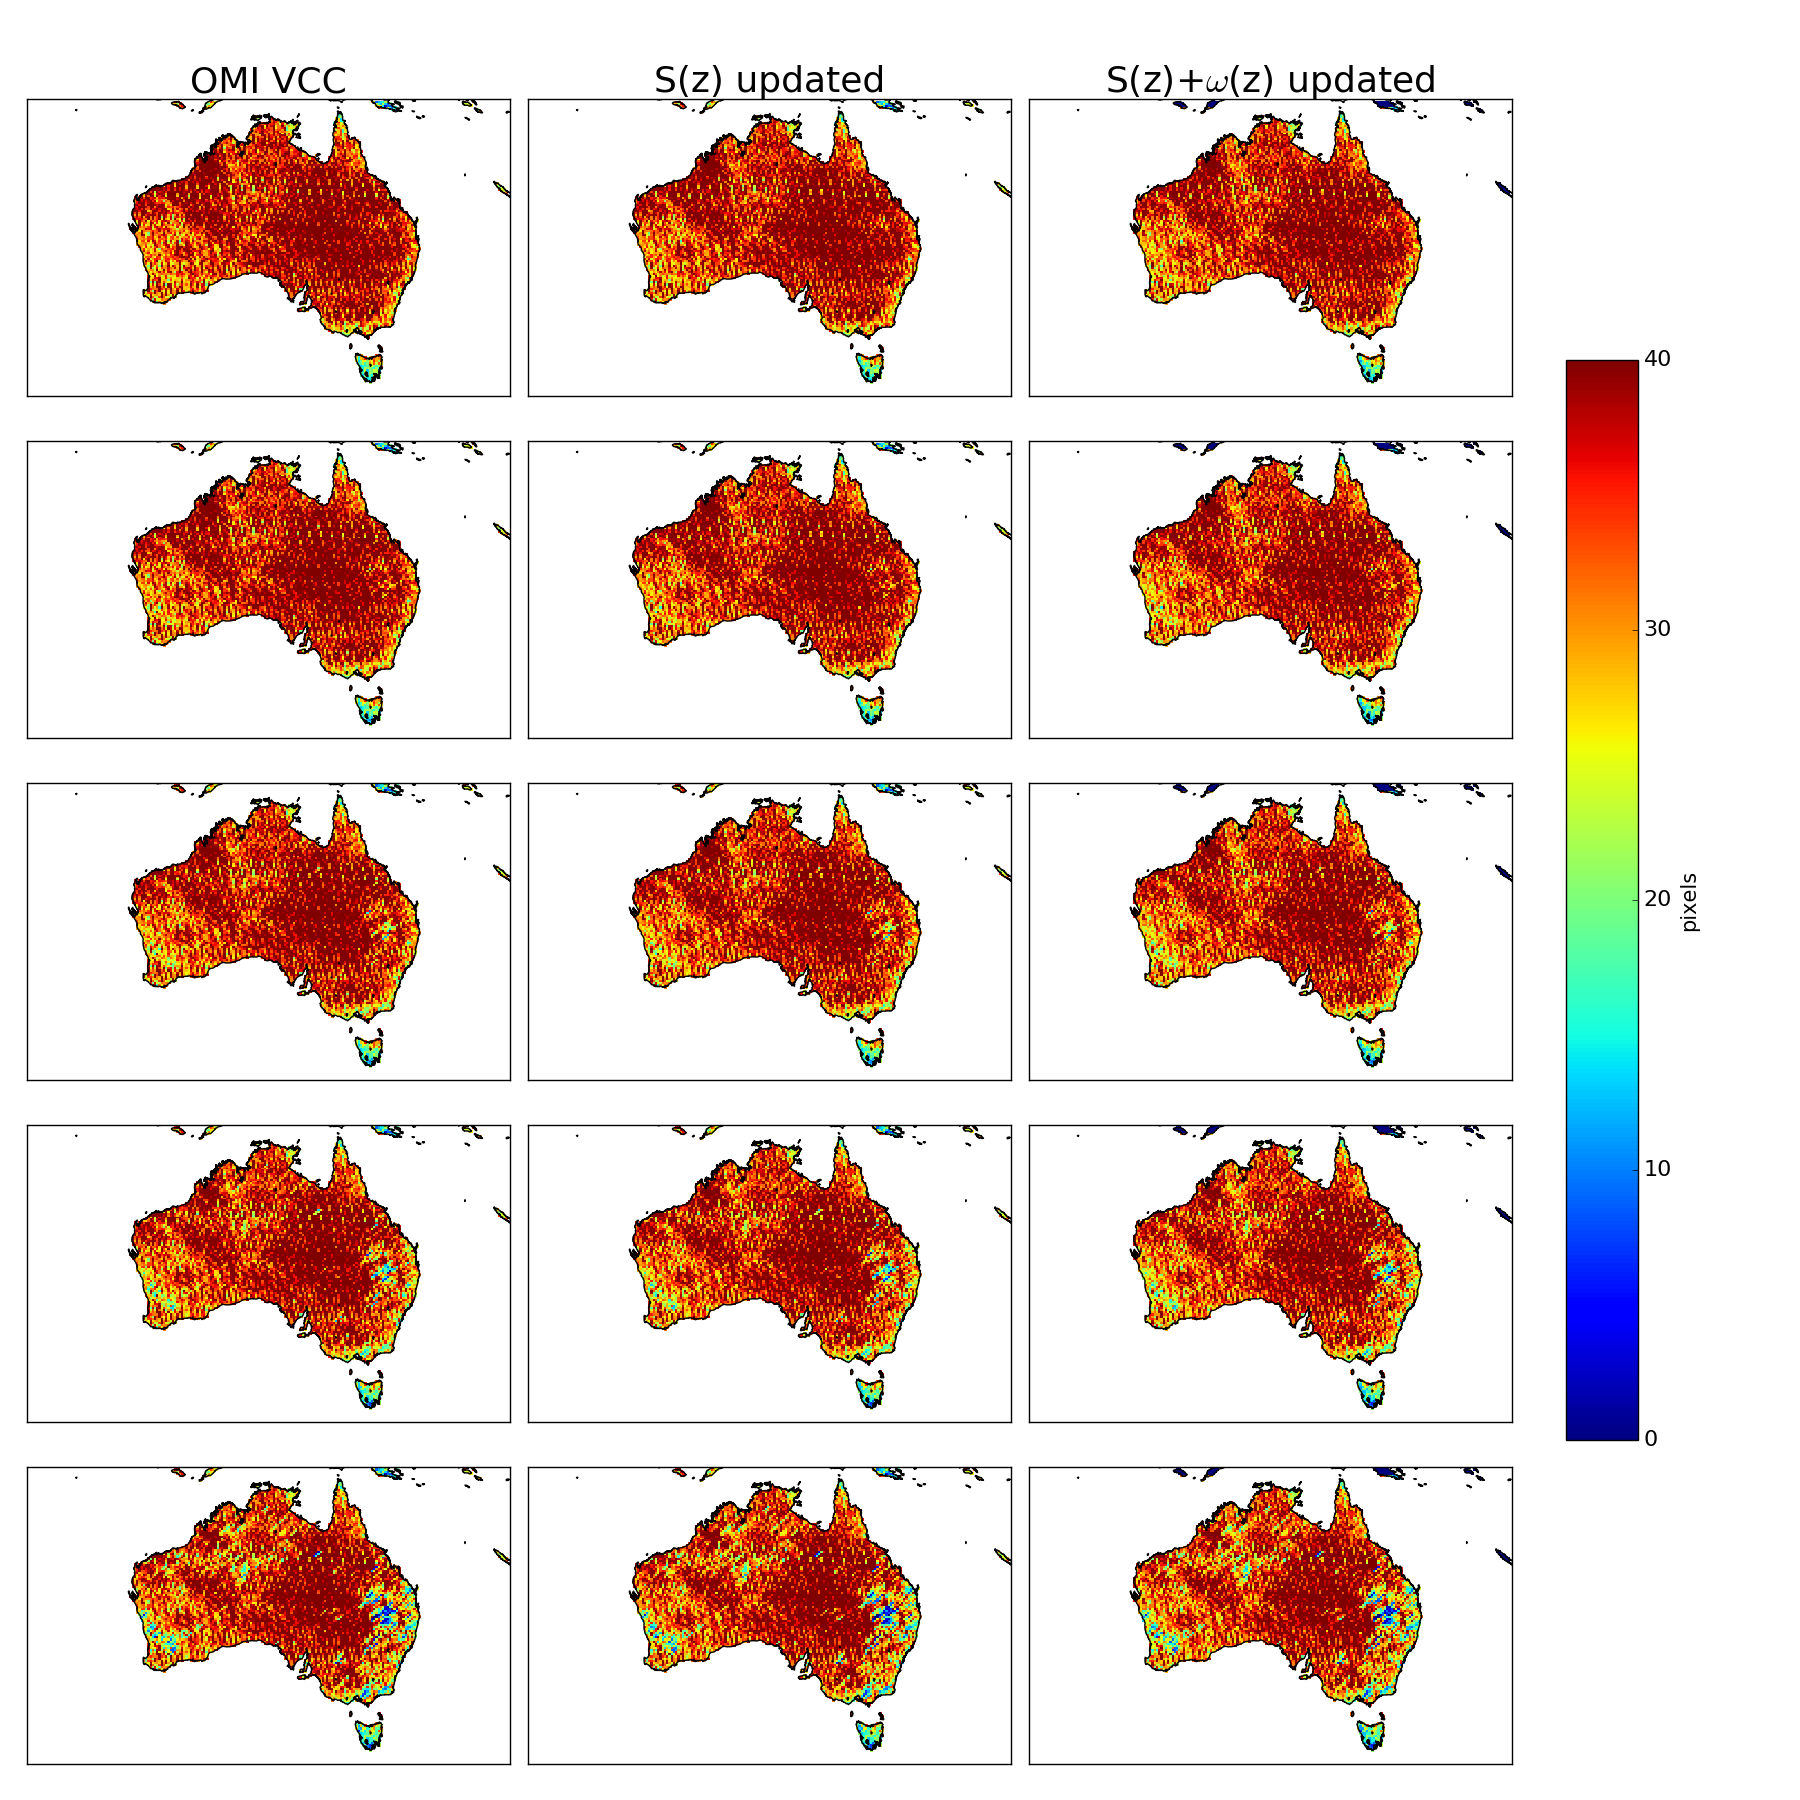
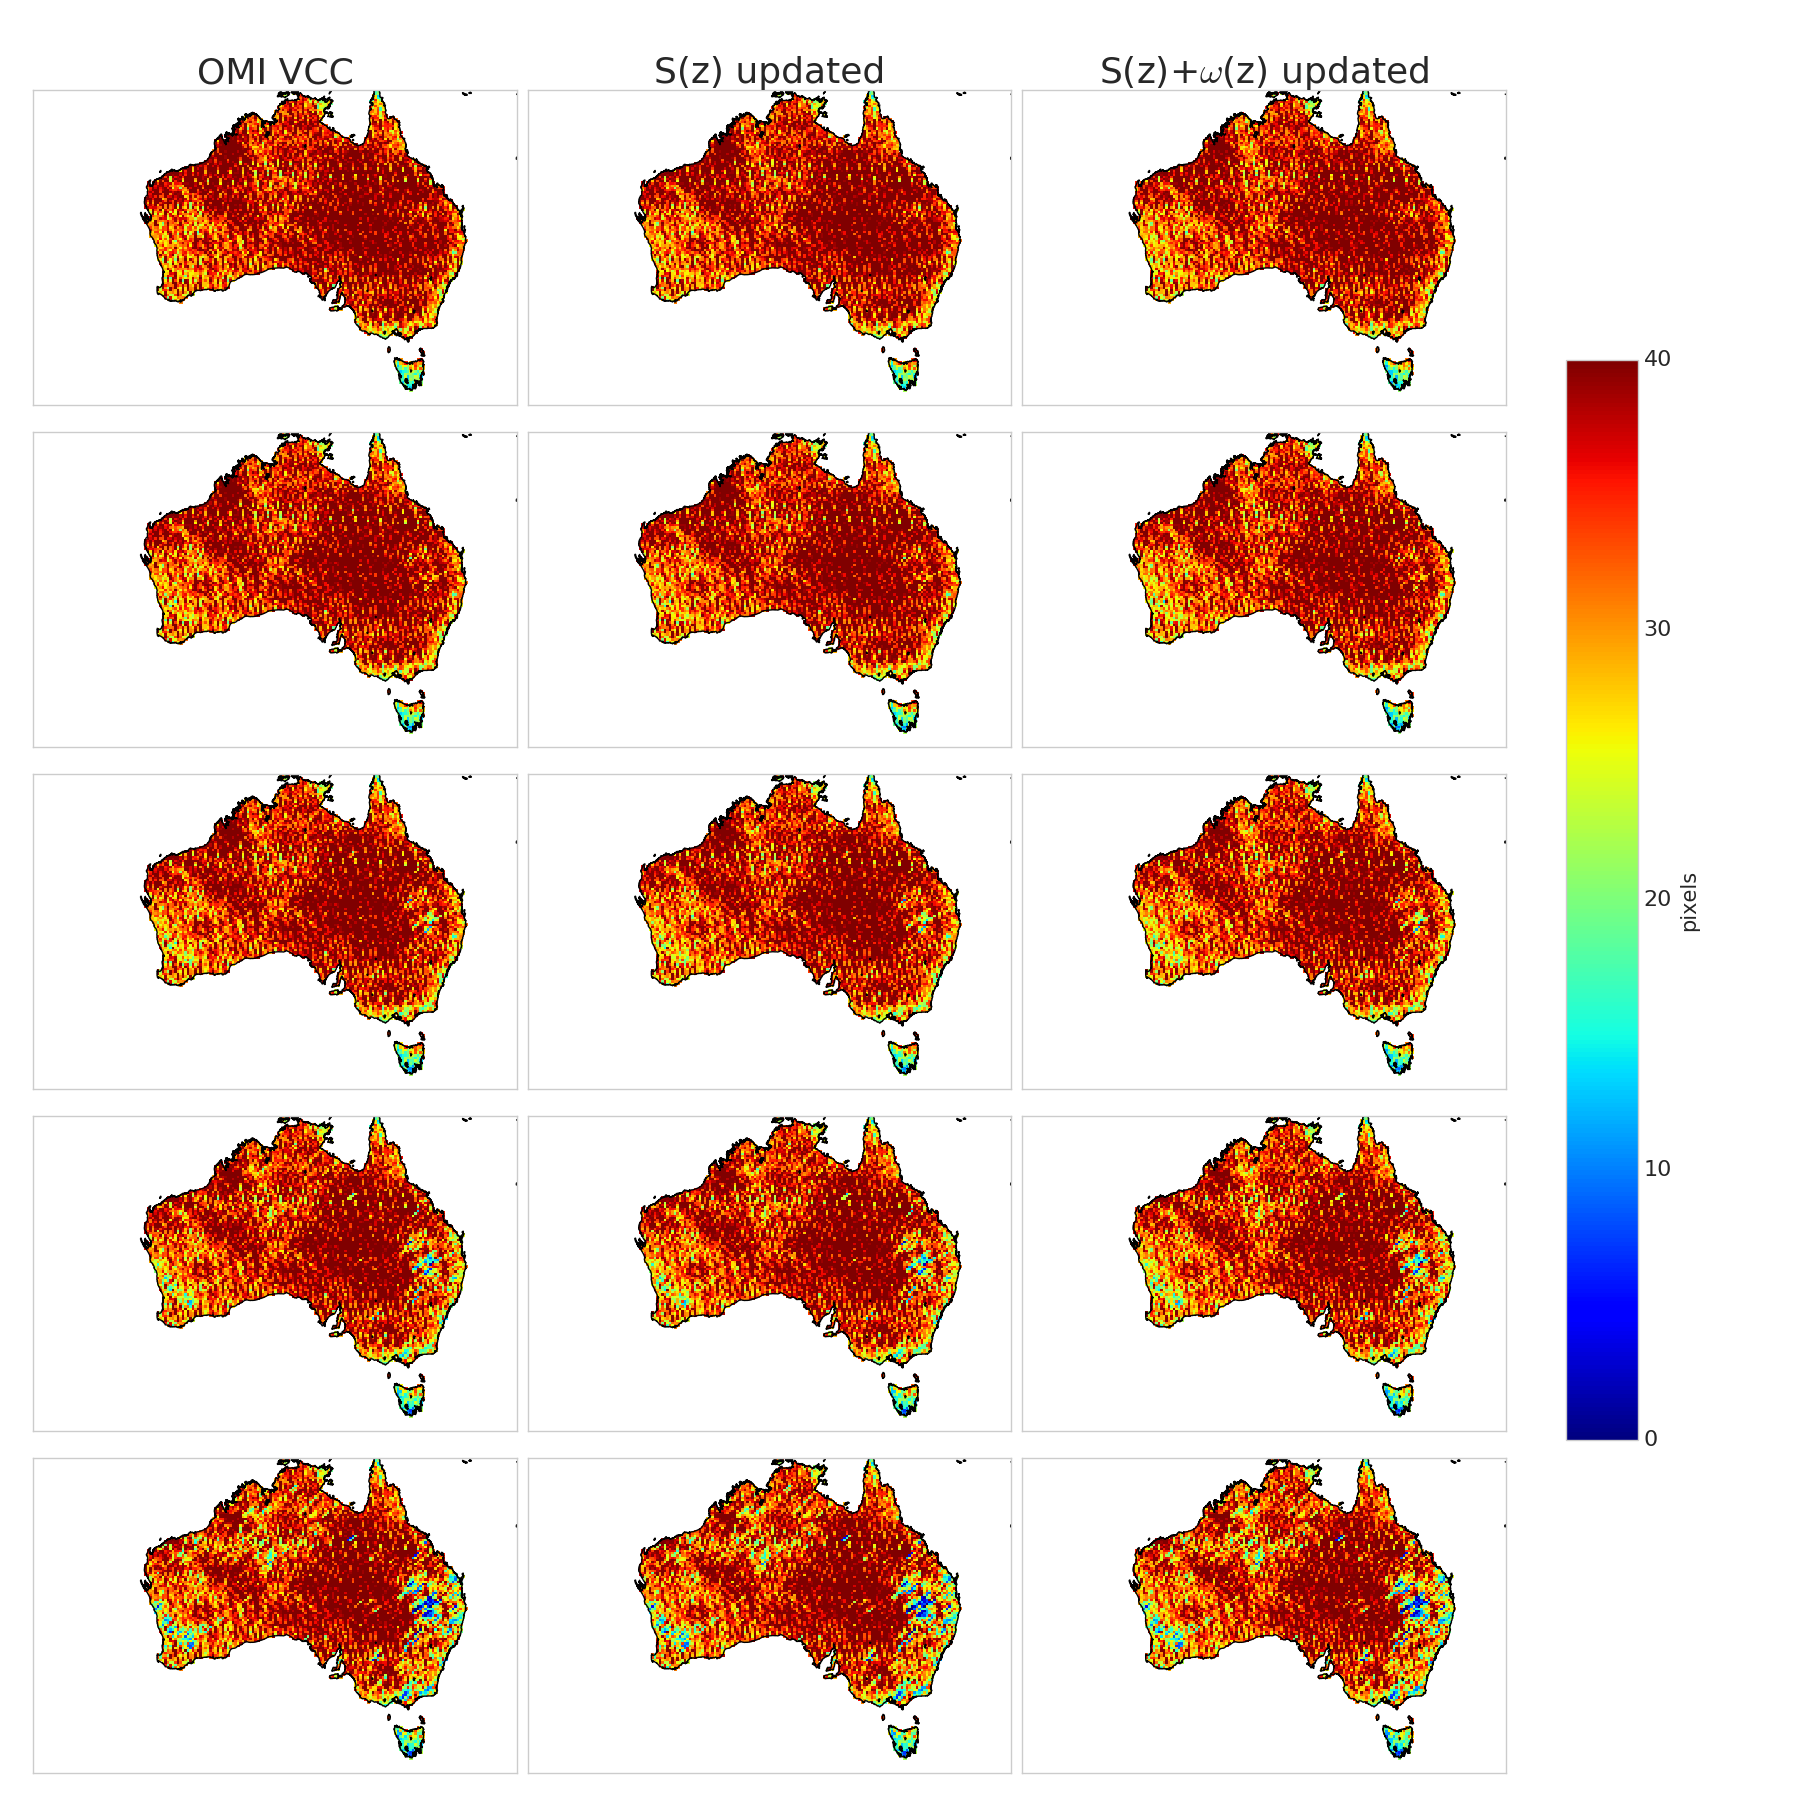
Updated vcc/pp/gc plot, added smoke vs fire

Changed region(s): [[0.0311, 0.0311, 0.84, 0.9956], [0.5289, 0.0311, 0.56, 0.0622]]

diff --git a/tests.py b/tests.py
@@ -27,6 +27,7 @@ from mpl_toolkits.basemap import Basemap, maskoceans
 import matplotlib.pyplot as plt
 from matplotlib.colors import LogNorm # for lognormal colour bar
 #import matplotlib.patches as mpatches
+import seaborn # kdeplots
 
 import random # random number generation
 import timeit
@@ -70,6 +71,77 @@ def check_array(array, nonzero=False):
 #############################################################################
 ######################       TESTS                  #########################
 #############################################################################
+
+def smoke_vs_fire(d0=datetime(2005,1,1),dN=datetime(2005,1,31),region=pp.__AUSREGION__):
+    '''
+        Compare fire counts to smoke aaod in the omhchorp files
+    '''
+    d0str=d0.strftime('%Y%m%d')
+    if dN is None:
+        dN = d0
+
+    dNstr=dN.strftime('%Y%m%d')
+
+    # Read the omhchorp product from d0-dN
+    data=omrp(day0=d0,dayn=dN, keylist=['AAOD','fires'])
+    lats=data.lats
+    lons=data.lons
+    # data fires and aaod = [times, lats, lons]
+    # data.fires.shape; data.AAOD.shape
+
+    f,axes=plt.subplots(2,2,figsize=(16,16)) # 2 rows 2 columns
+
+    titles=['Fires','AAOD$_{500nm}$']
+    linear=[True,False]
+    # average over time:
+    fires=data.fires.astype(np.float)
+    aaod=data.AAOD
+    fires[fires<0] = np.NaN
+    aaod[aaod<0]   = np.NaN
+    # Average over time
+    if data.n_times > 1:
+        fires=np.nanmean(fires,axis=0)
+        aaod=np.nanmean(aaod,axis=0)
+
+    for i,arr in enumerate([fires,aaod]):
+
+        # plot into right axis
+        plt.sca(axes[0,i])
+        pp.createmap(arr,lats,lons,title=titles[i],
+                     linear=linear[i],region=region,
+                     colorbar=True,cmapname='Reds',)
+                     #vmin=vmins[i],vmax=vmaxes[i])
+    plt.suptitle('Fires vs AAOD %s-%s'%(d0str,dNstr))
+
+    # third subplot: regression
+    plt.sca(axes[1,0])
+    X=fires
+    Y=aaod
+
+    subset=util.lat_lon_subset(lats,lons,region,[X,Y])
+    X,Y=subset['data'][0],subset['data'][1]
+    lats,lons=subset['lats'],subset['lons']
+    pp.plot_regression(X,Y,logscale=False,legend=False)
+    plt.xlabel('Fires')
+    plt.ylabel("AAOD")
+    plt.title('Correlation')
+
+    # Fourth plot: density of AAOD,Fires:
+    plt.subplot(426)
+    #plt.sca(axes[1,1])
+
+    seaborn.set_style('whitegrid')
+    seaborn.kdeplot(Y.flatten())# linestyle='-')
+    plt.title('aaod density')
+    plt.subplot(428)
+    seaborn.set_style('whitegrid')
+    seaborn.kdeplot(X.flatten())# linestyle='-')
+    plt.title('fires density')
+
+    pname='Figs/Smoke_vs_Fire_%s-%s.png'%(d0str,dNstr)
+    plt.savefig(pname)
+    print("Saved figure ",pname)
+
 
 def smearing_calculation(date=datetime(2005,1,1)):
     '''
@@ -201,6 +273,7 @@ def compare_products(date=datetime(2005,1,1), oneday=True, positiveonly=False,
     plt.savefig(outfig)
     plt.close()
     print(outfig+" Saved.")
+
 
 def check_products(date=datetime(2005,1,1), oneday=True, pltname='',
                    lllat=-60, lllon=-179, urlat=50, urlon=179):
@@ -888,7 +961,7 @@ def analyse_VCC_pp(day=datetime(2005,3,1), oneday=False, ausonly=True):
     print("%s saved"%pname)
     plt.close(f)
 
-def plot_VCC_rsc_gc_pp(d0=datetime(2005,3,1),dn=None,region=[-45, 98.75, -11, 166.25]):
+def plot_VCC_rsc_gc_pp(d0=datetime(2005,3,1),dn=None,region=[-45, 99.5, -11, 160.0]):
     '''
         Plot columns with different amf bases
         also different fire filtering strengths
@@ -1836,7 +1909,8 @@ if __name__ == '__main__':
     #check_HEMCO_restarts()
 
     #analyse_VCC_pp(oneday=False, ausonly=True)
-    plot_VCC_rsc_gc_pp(d0=datetime(2005,3,1),dn=datetime(2005,3,31))
+    smoke_vs_fire()
+    #plot_VCC_rsc_gc_pp(d0=datetime(2005,3,1),dn=datetime(2005,3,31))
     #plot_swaths()
     # AMF tests and correlations
     #Check_OMI_AMF()

diff --git a/amf_calculation.py b/amf_calculation.py
@@ -27,33 +27,33 @@ _AUSzonal=[-50, -160, -10, 160] # Australia plus required remote pacific
 #
 def pixel_list_to_csv(date=datetime(2005,1,1),swne=_AUSzonal):
     '''
-    Read good pixel list, 
+    Read good pixel list,
         These pixels are read from the omi swath dataset
         [optional: pull out the section we want,]
         save to csv for amf program to use.
-    CSV: 
+    CSV:
     linenumber, scan, pixel,lat, lon, sza, sva, cloud frac, cloud top pressure
     '''
     fname='Data/omhcho_csv/%s_for_AMF.csv'%date.strftime('%Y-%m-%d')
     csv_params=['scan','track', 'lat', 'lon', 'sza','vza','cloudfrac','ctp' ]
-    
+
     # list of good pixels
     # We are going to create the Palmer AMFs, not read them
-    gp=reprocess.get_good_pixel_list(date, PalmerAMF=False) 
-    
-    # cut the pixel list down to a desired region:
+    gp=reprocess.get_good_pixel_list(date, PalmerAMF=False)
     lats=np.array(gp['lat'])
     lons=np.array(gp['lon'])
+
+    # cut the pixel list down to a desired region:
     zone=np.ones(len(lats),dtype=bool)
     if swne is not None:
         zone=(lats < swne[2]) * (lons < swne[3]) * (lats > swne[0]) * (lons > swne[1])
         assert (np.max(lats[zone]) < swne[2]), "subsetting region didn't work"
-        if __DEBUG__: 
+        if __DEBUG__:
             print("range cut down to (s,w,n,e): %s"%str((min(lats[zone]),min(lons[zone]),max(lats[zone]),max(lons[zone]))))
             print("from %2.0e entries down to %2.0e entries"%(len(lats)*len(lons),np.sum(zone)))
-        
+
         # One day for AUS cuts pixels from ~ 700k to 38k
-    
+
     # save the 9 parameters we want for randal martin AMF package to csv:
     pixelnumber=np.arange(0,len(lats))
     # Create a list of 9 lists, each with the same length, then transpose
@@ -63,10 +63,10 @@ def pixel_list_to_csv(date=datetime(2005,1,1),swne=_AUSzonal):
     for name in csv_params:
         lists.append(list(np.array(gp[name])[zone]))
         if __DEBUG__: print("%d entries for column %s"%(len(lists[-1]),name))
-    
+
     # Transpose the list
     rows=list(map(list,zip(*lists)))
-    
+
     with open(fname,'w') as f:
         writer=csv.writer(f)
         for row in rows:
